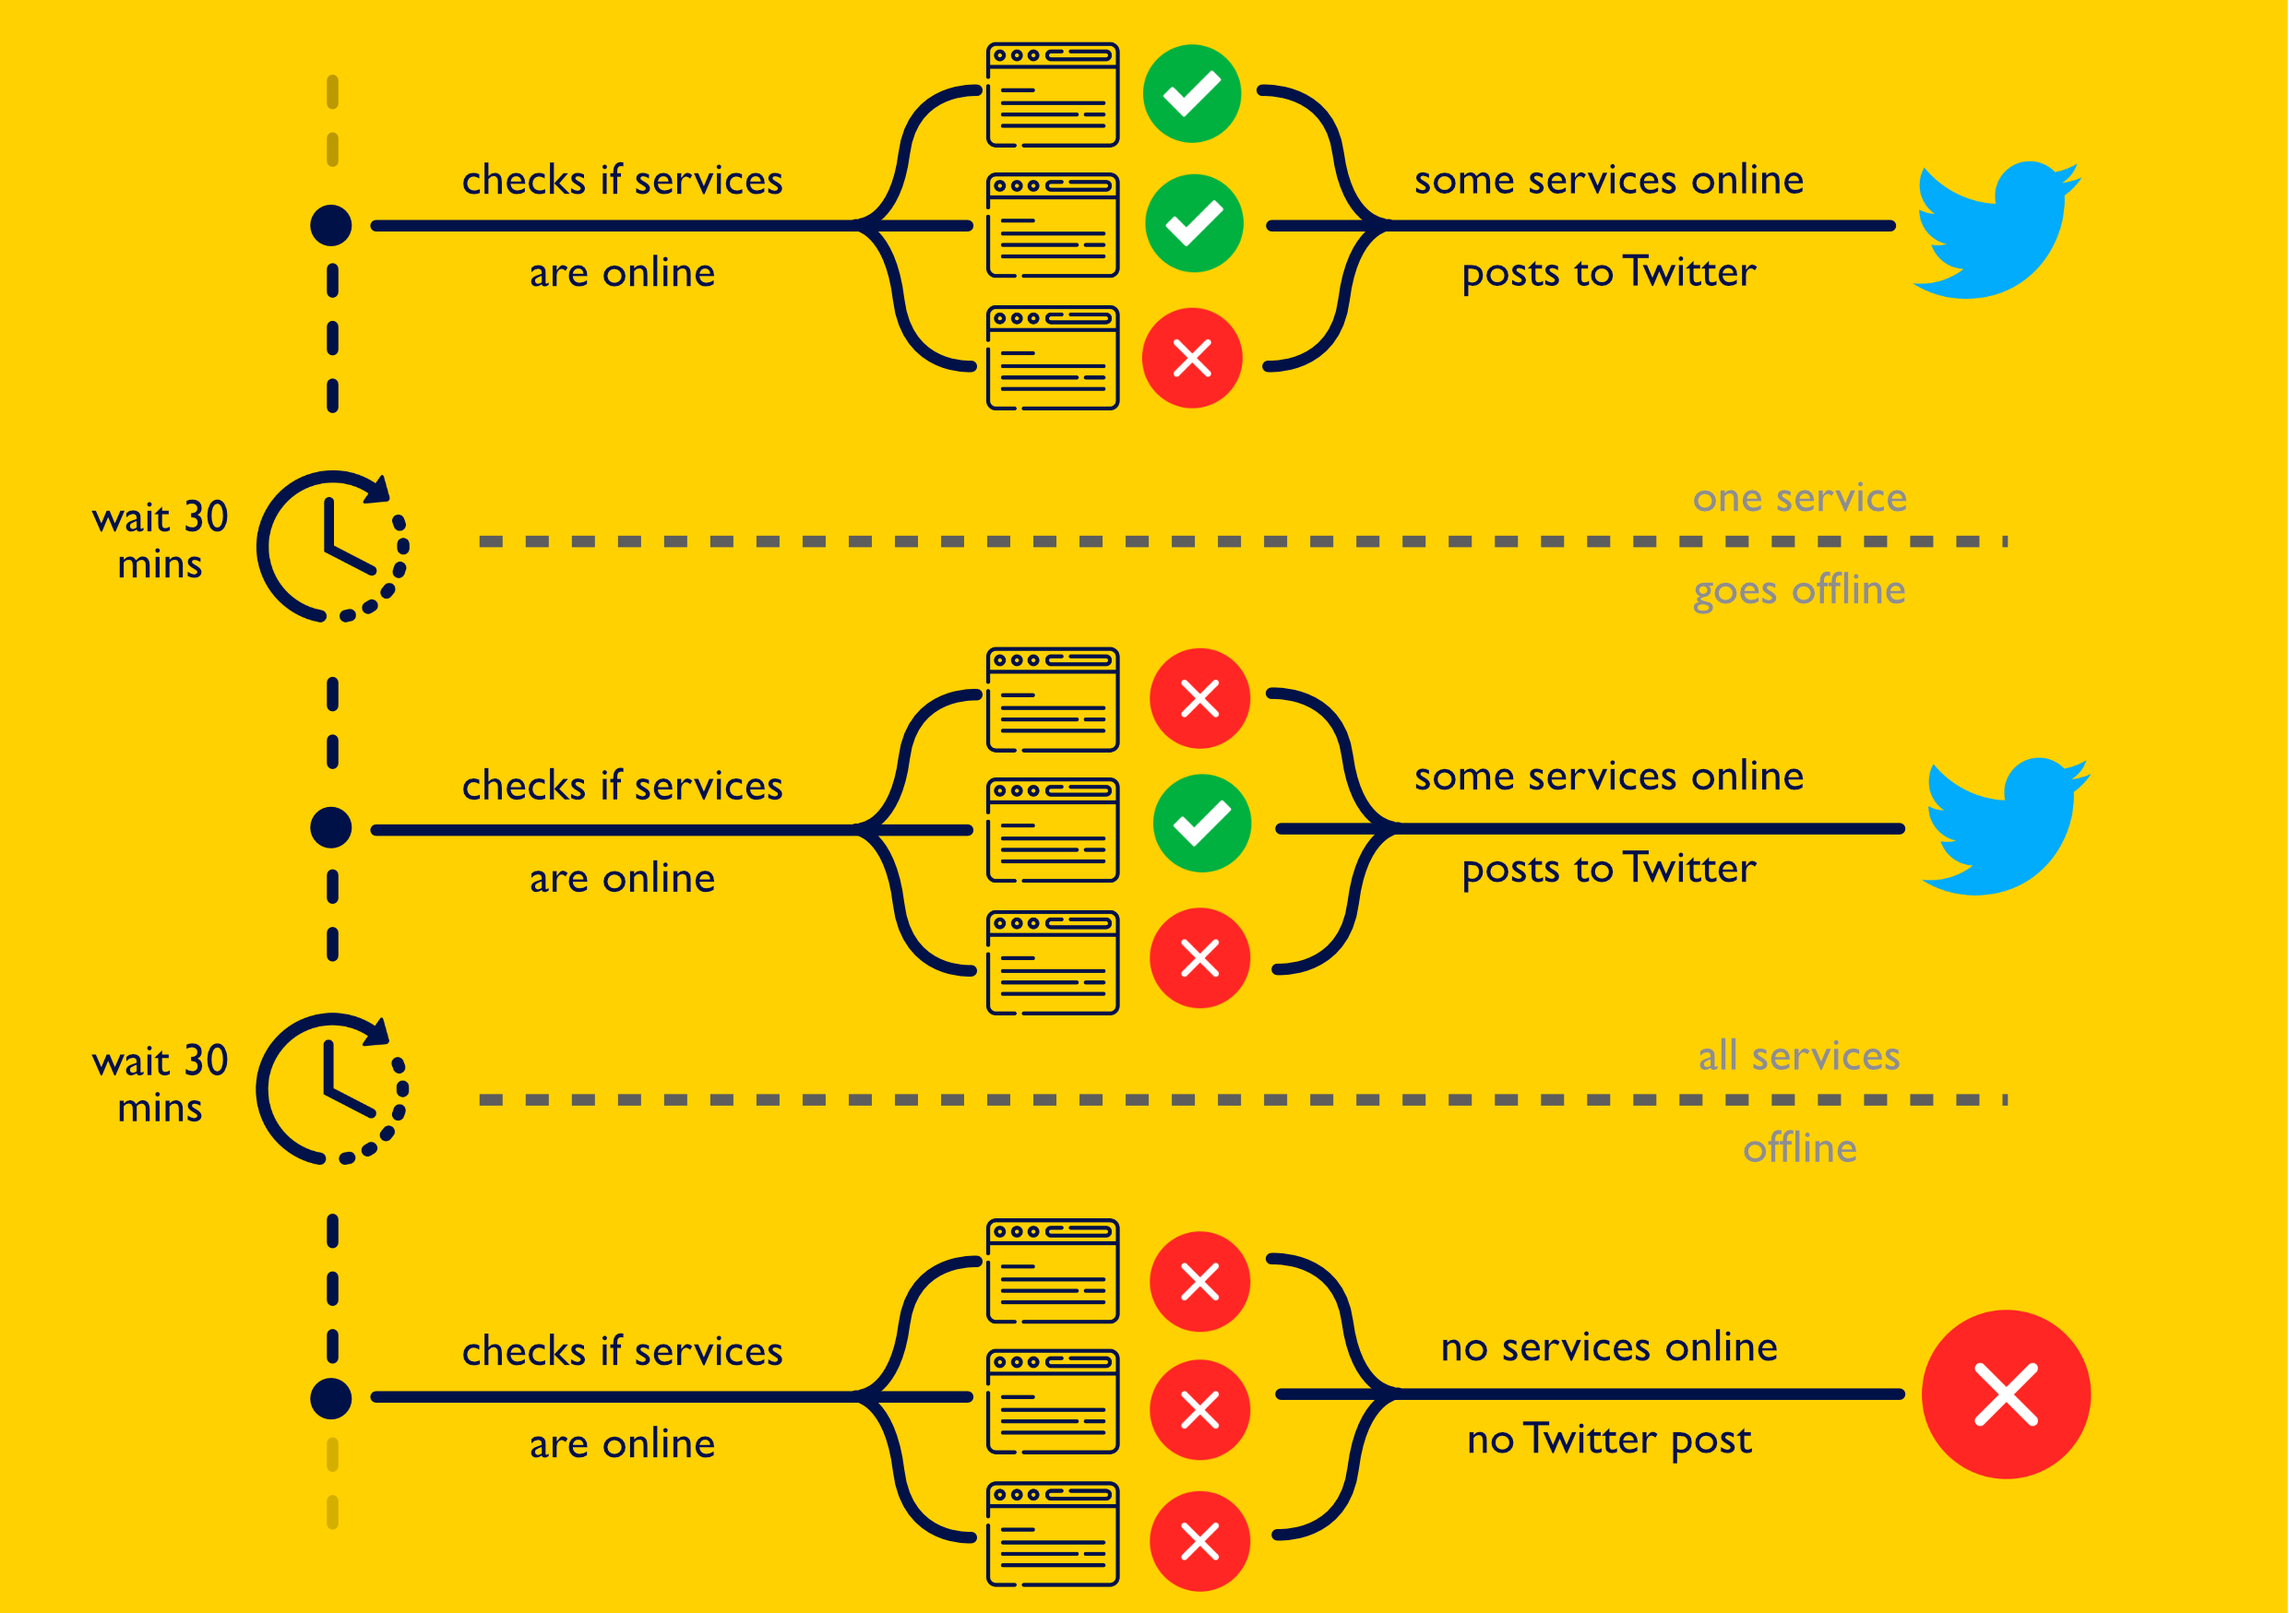
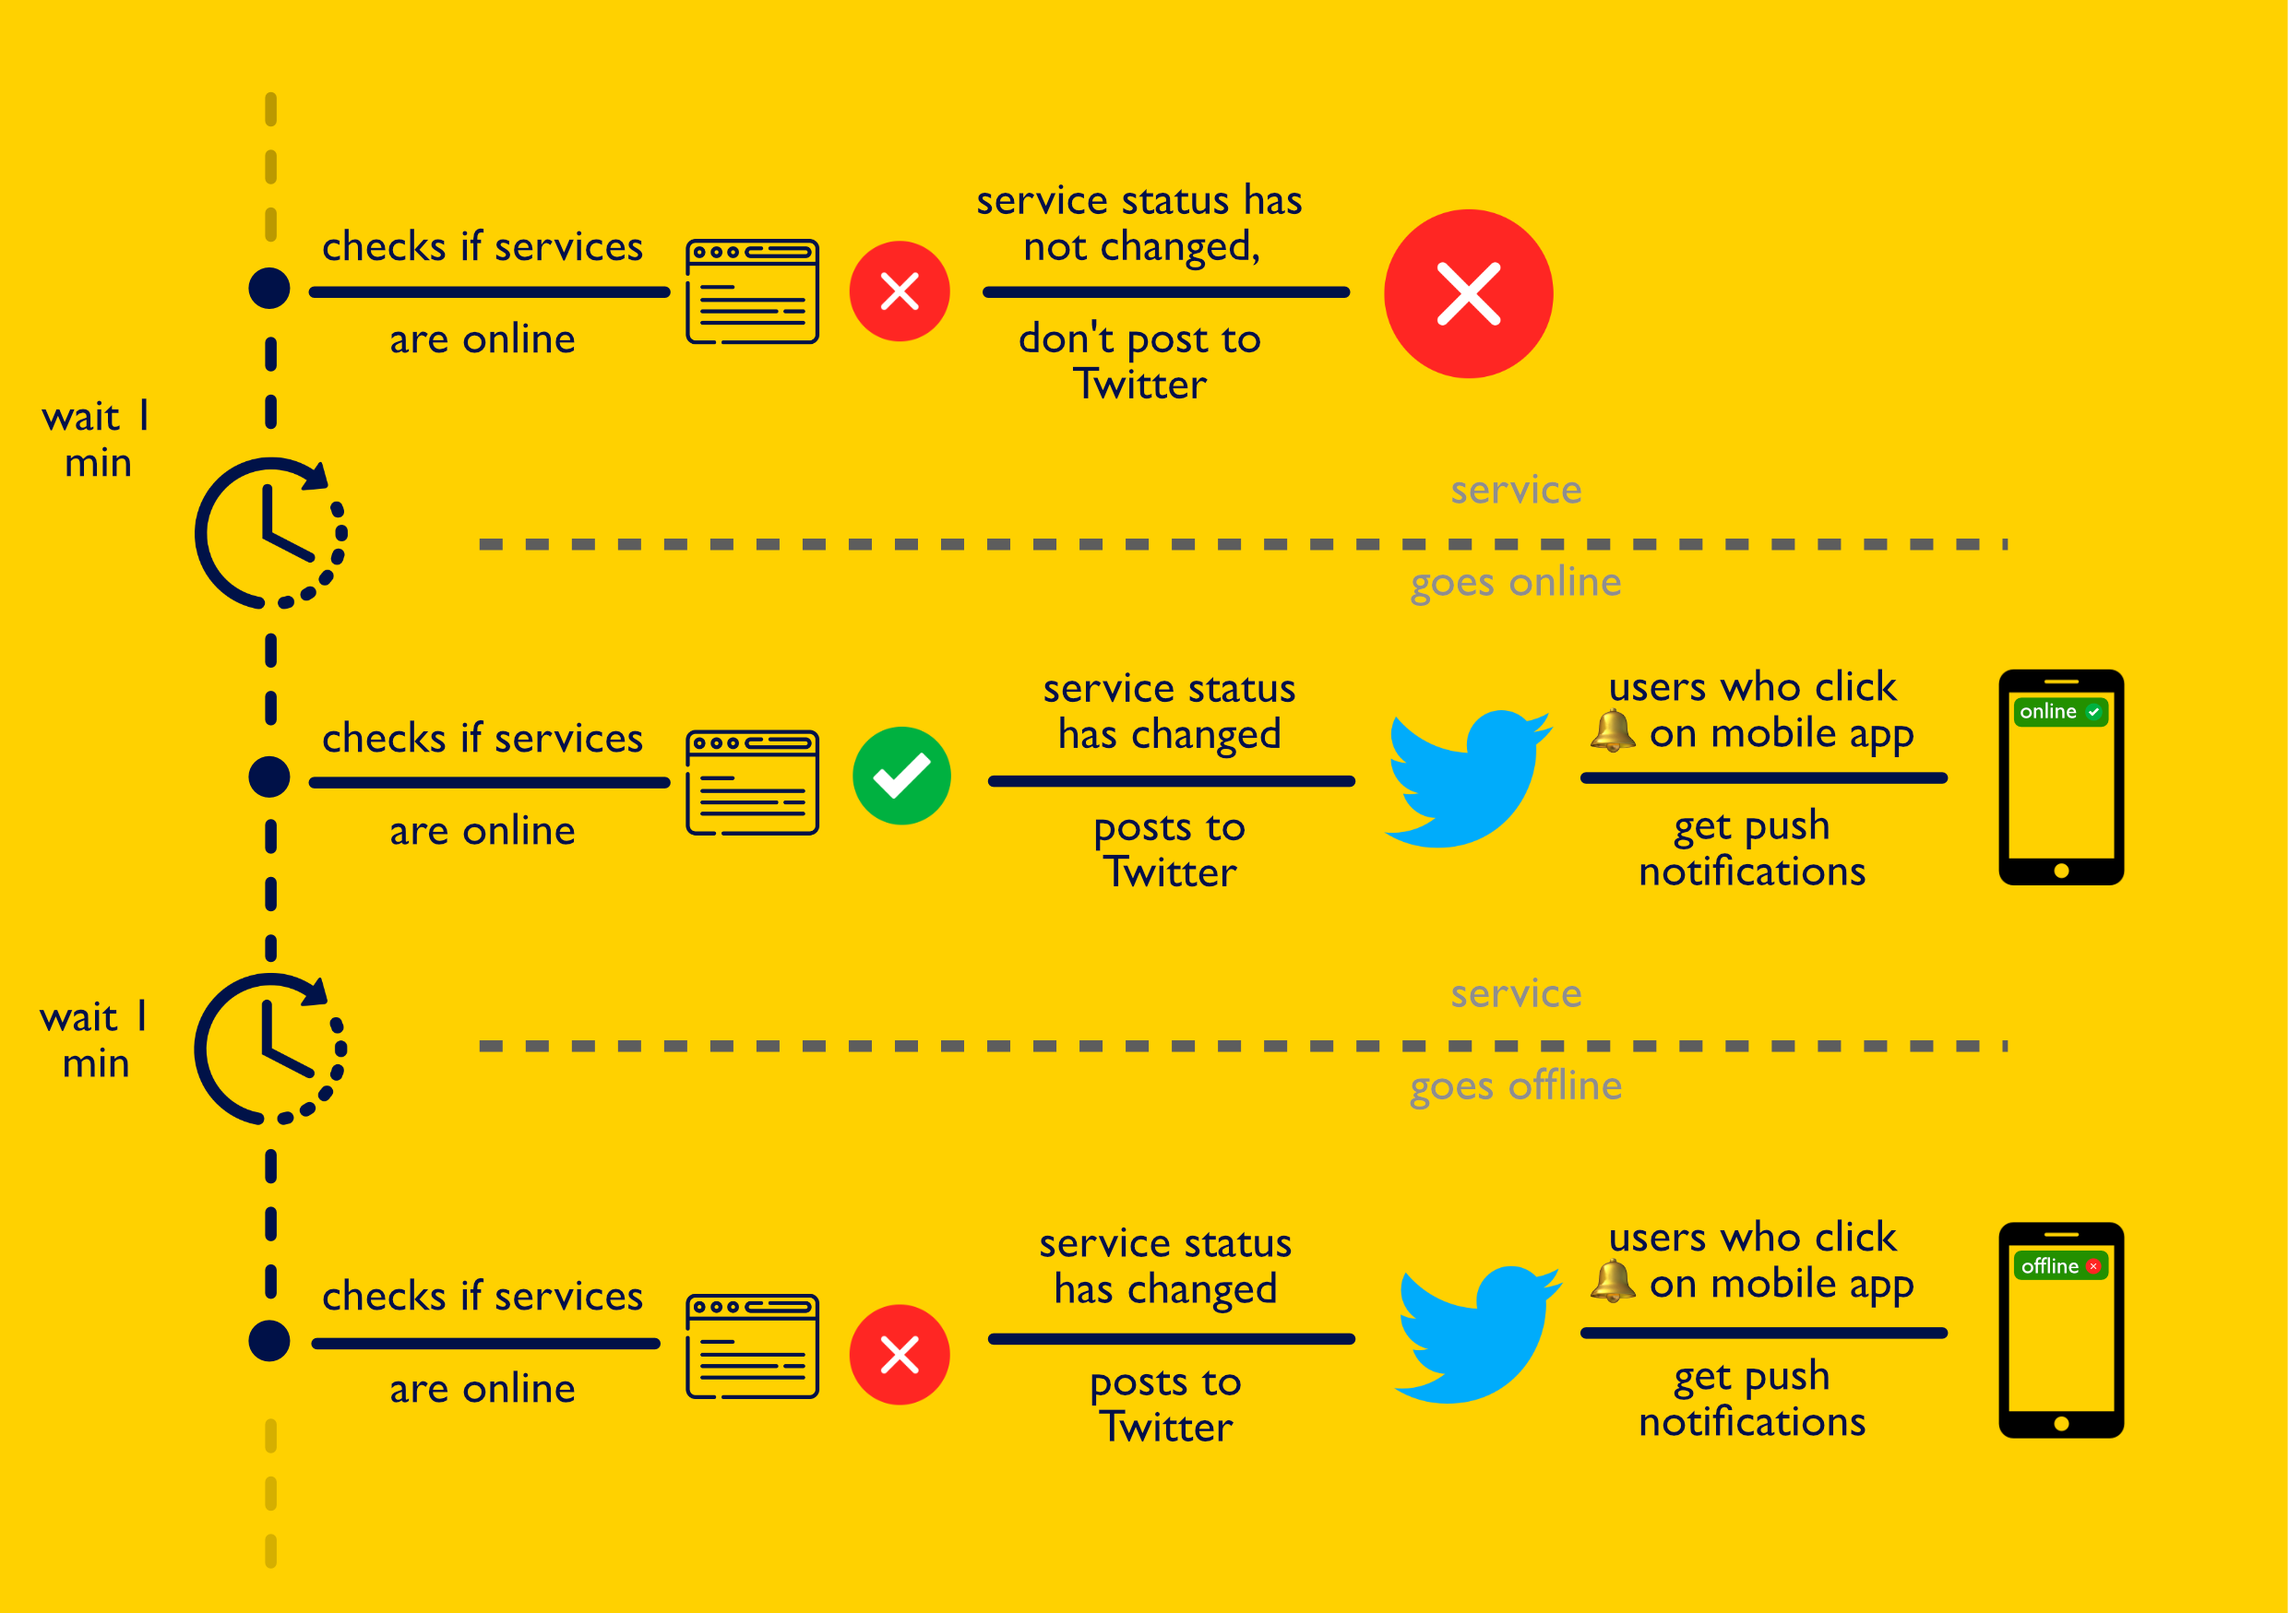
faq update

diff --git a/Twitter_FAQ.md b/Twitter_FAQ.md
@@ -13,9 +13,8 @@ The UK Government Official website on getting an urgent passport.</a>
 <summary>How does this work Twitter Bot/Account?</summary>
 <br>
 <blockquote>
-The bot checks the Premium and Fast Track websites every 30 minutes. If the websites 
-are online, or online and busy, the bot will post a tweet. It will then check again
-30 minutes later. The statuses on the tweets are therefore only valid for 30 minutes.
+The bot checks the Premium and Fast Track websites every minute. If the websites 
+have a status change (online to offline, or offline to online) the bot will post a tweet. 
 You can click the bell symbol (🔔) on the profile if you're using the Twitter mobile
 app, this will then send you a push notification when the account tweets.
 <br><br>
@@ -204,9 +203,9 @@ photo and payment details ready at hand.</blockquote>
 <blockquote>
 There is no set time. Typically, they go online during working hours during weekdays.
 <br><br>
-Lately (30/05/2022), some patterns may be emerging with:<br>
-1. Fast Track going online between 16:00 and 17:00<br>
-2. Premium going online between 07:00 and 09:00<br>
+Lately (as of 04/06/2022), some patterns may be emerging with:<br>
+1. Fast Track going online at around 16:00 until 18:00<br>
+2. Premium going online at around 08:00<br>
 <br><br>
 <p align="center">
   <img src="https://raw.githubusercontent.com/mshodge/youshallnotpassport/gh_pages/img/latest_one_week_fast_track_plot_for_the_whole_time-series.png" alt="When was fast track online?"/>
@@ -223,7 +222,7 @@ Lately (30/05/2022), some patterns may be emerging with:<br>
 <br>
 <blockquote>
 Over the several weeks this bot has been running it hasn't yet seen any evidence
-that the services go online at midnight, or any set time.
+that the services go online at midnight, or any set time. See above.
 </blockquote>
 <br><br>
 </details>
